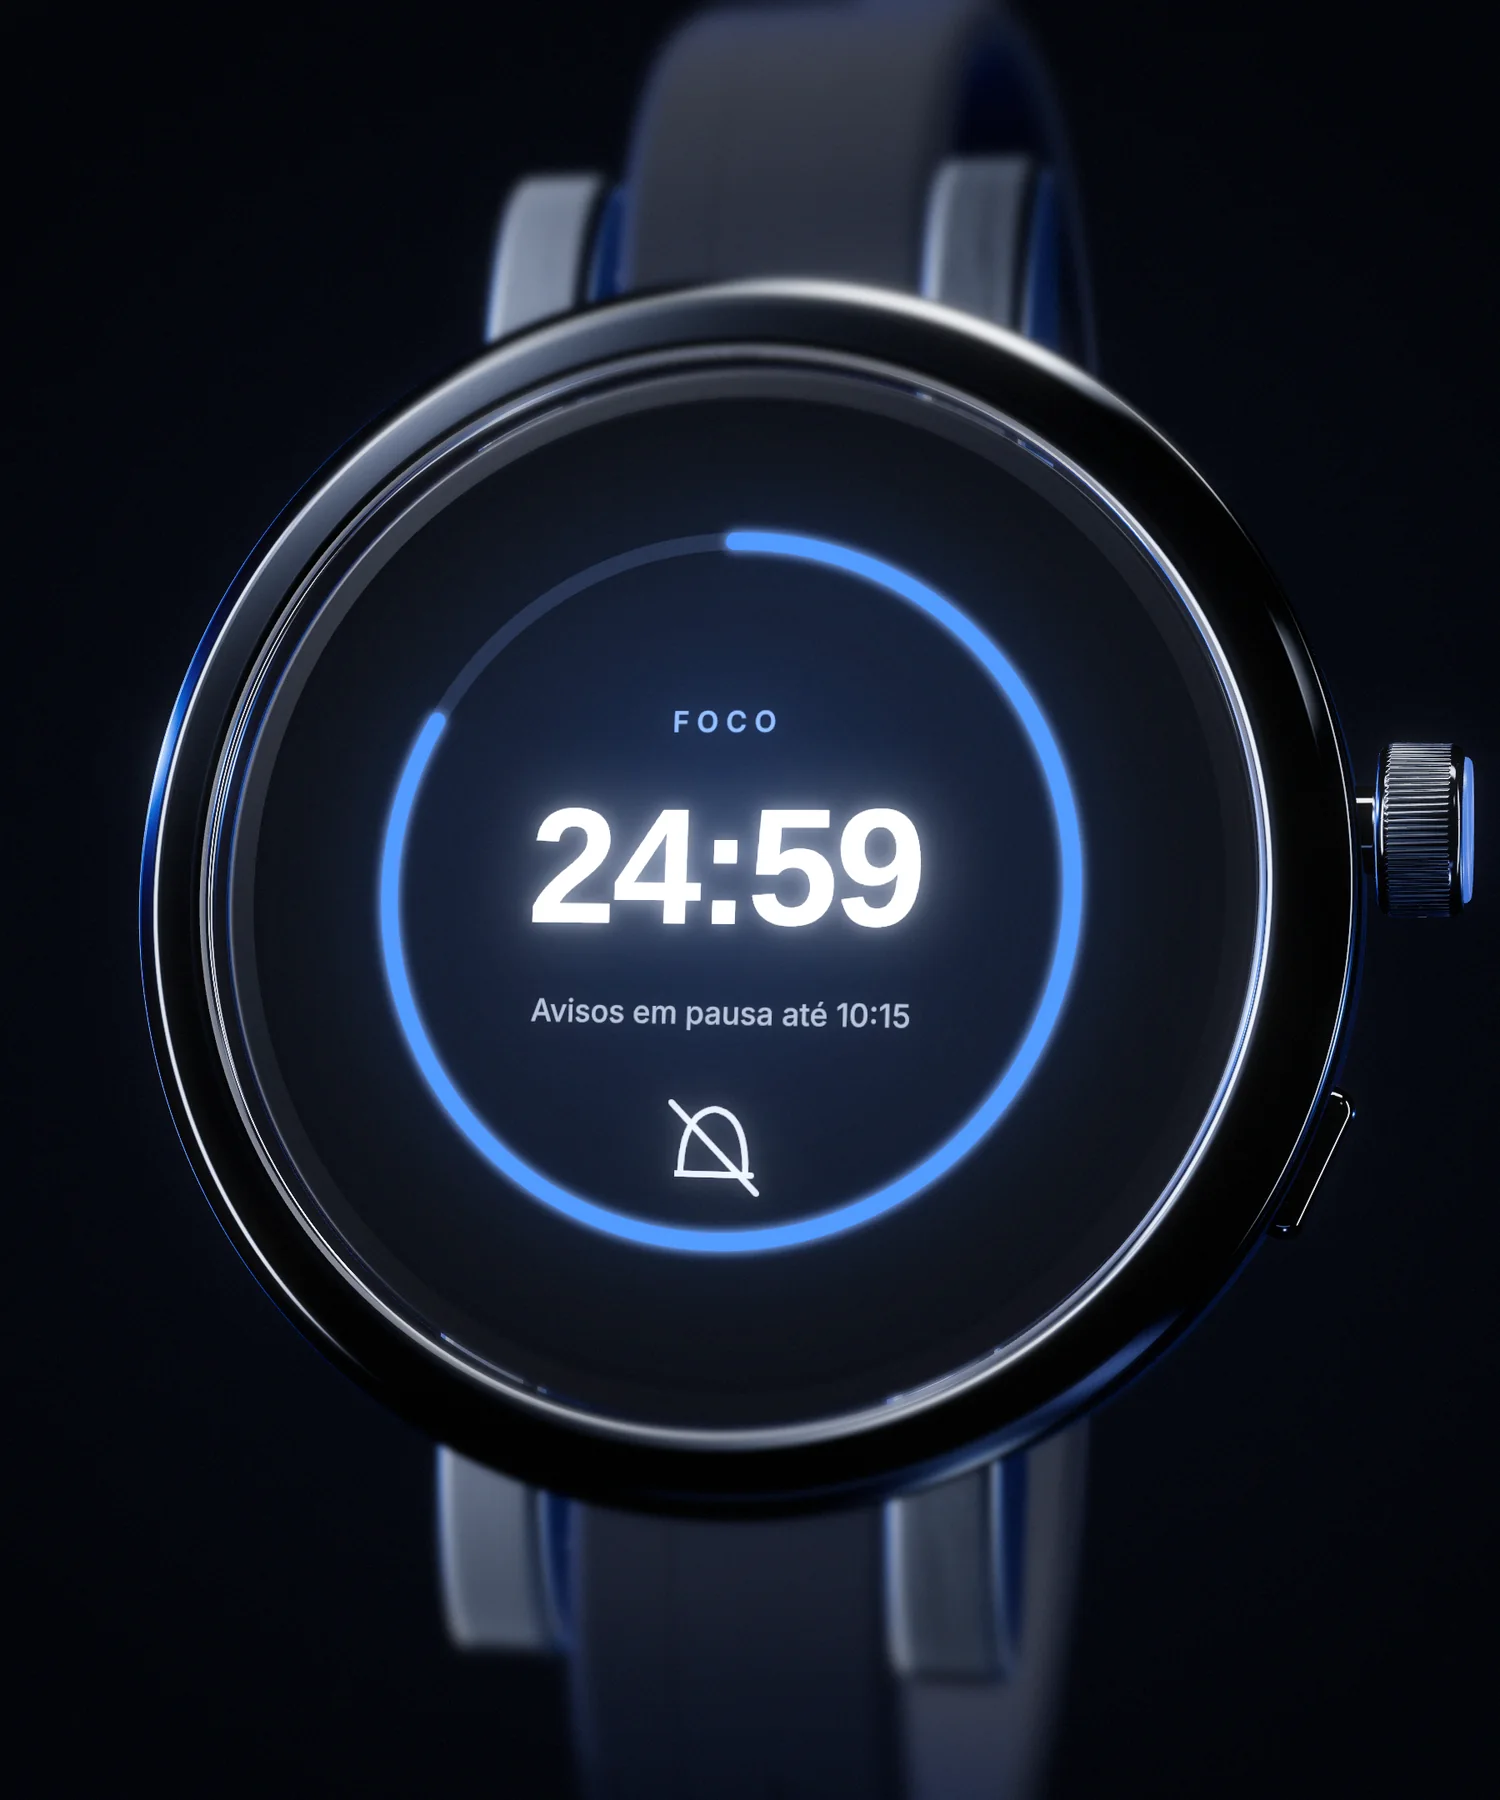
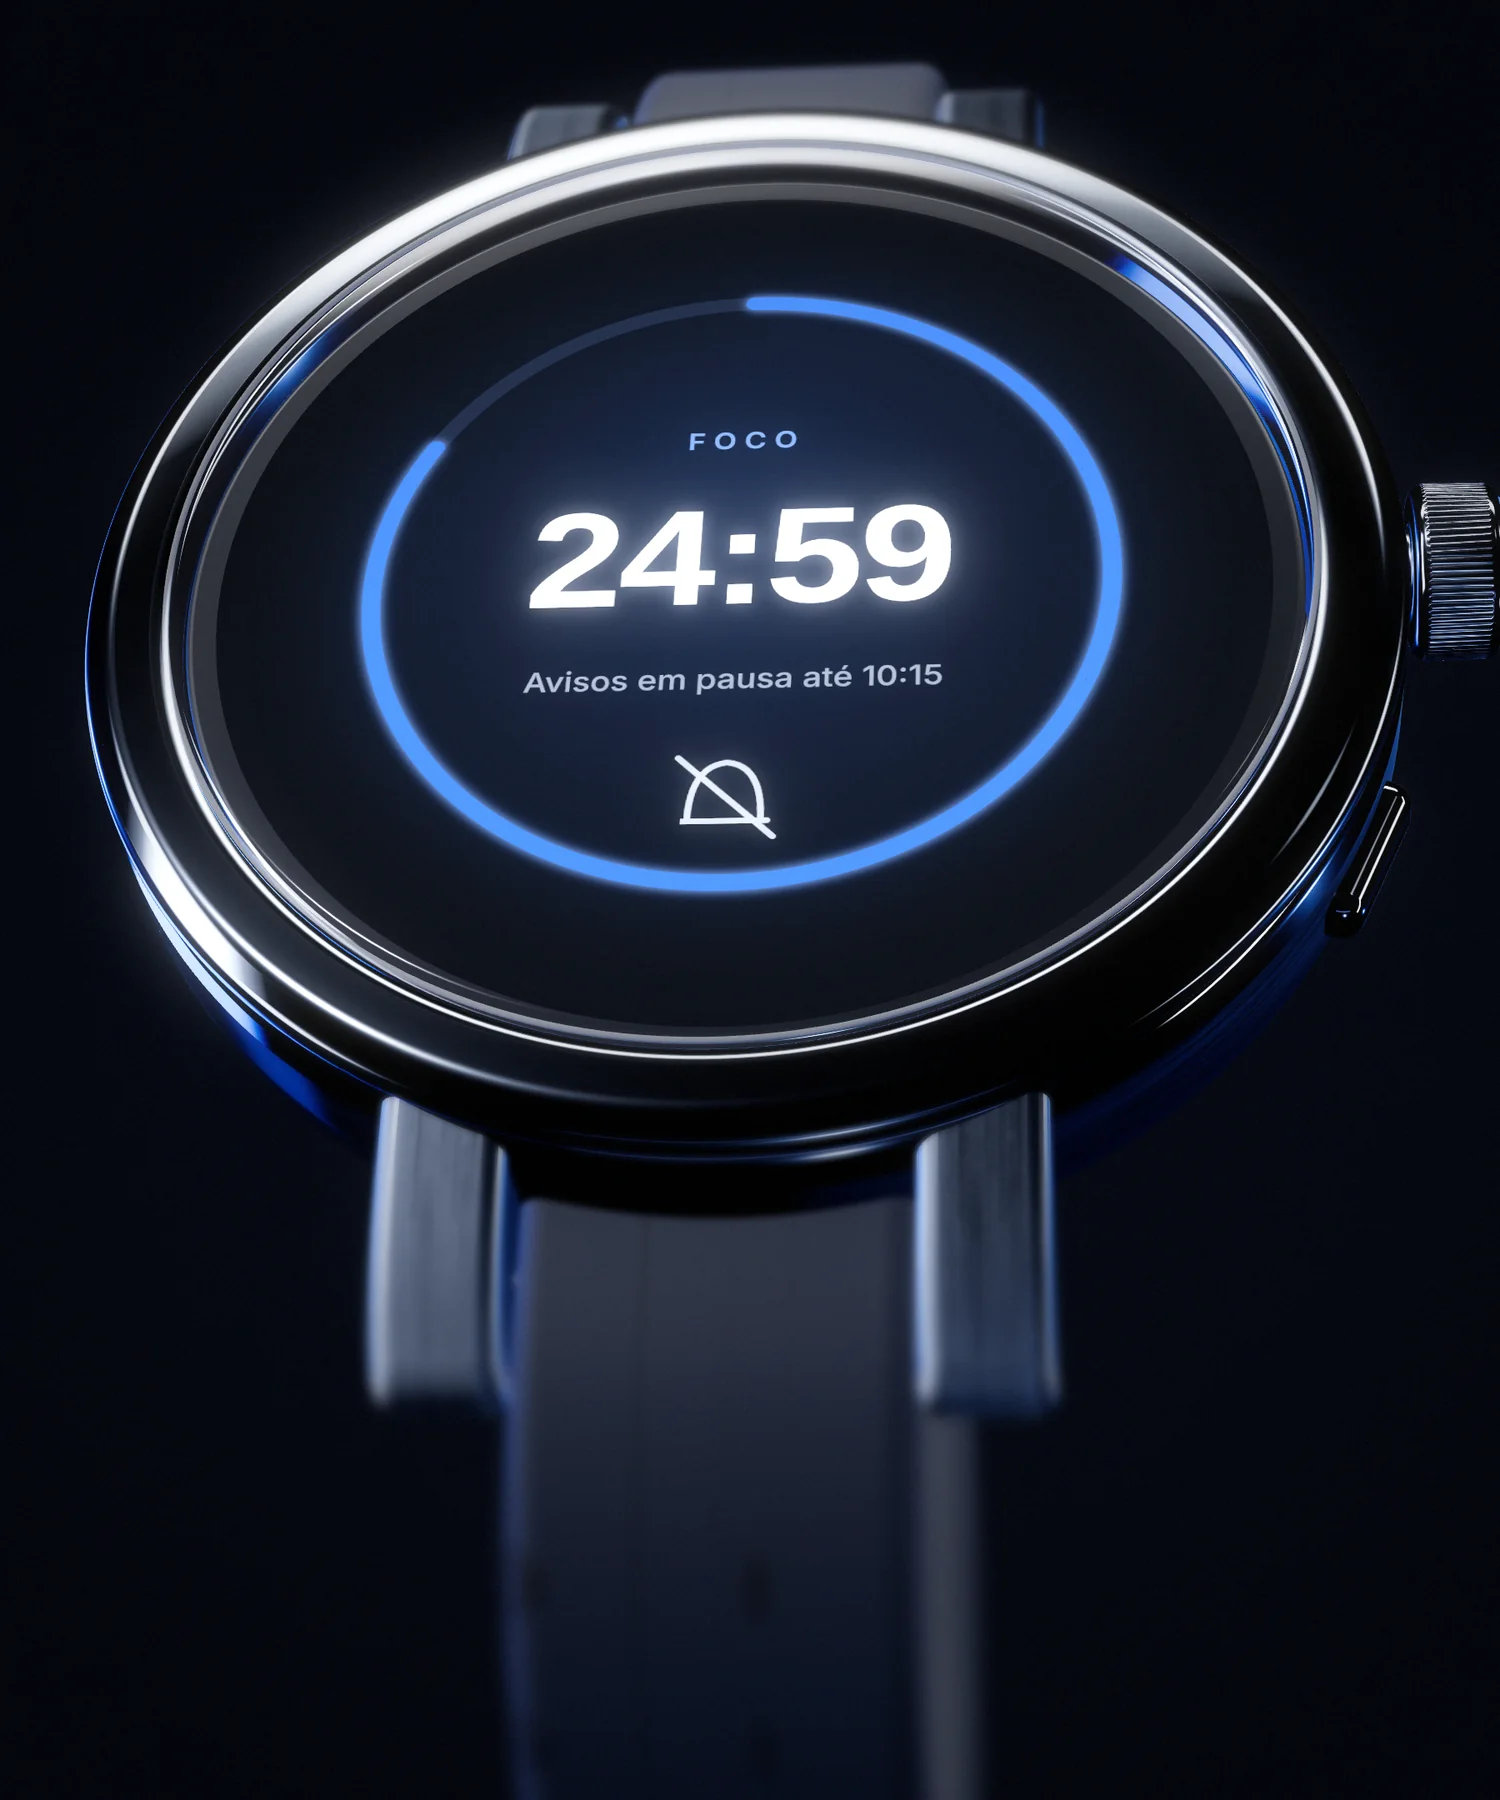
Experiencia sem quadro, relogio visto de baixo esmaecendo no fundo; novas fotos de batimentos e modo noite
Claude-Session: https://claude.ai/code/session_015fBC8hVVoJRo1UqrJkWwk9

diff --git a/index.html b/index.html
@@ -237,19 +237,16 @@ section{position:relative}
 .chiprow span{font-size:13px;font-weight:600;color:var(--text);padding:6px 12px;border-radius:999px;background:rgba(107,155,255,.12);border:1px solid rgba(107,155,255,.28)}
 
 /* ---------- 8 experiência (relógio à esquerda, texto à direita) ---------- */
-.experience{height:auto;background:#020204}
+.experience{height:auto;background:#030409}
 .experience .sticky{position:relative;height:auto;overflow:visible;display:grid;grid-template-columns:minmax(0,1fr) minmax(340px,38vw);align-items:center;gap:clamp(40px,6vw,110px);padding:clamp(110px,15vh,160px) var(--gutter)}
-.exp__frame{width:min(100%,64vh);justify-self:center;margin:0;padding:18px 0;border-top:1px solid var(--line-2);border-bottom:1px solid var(--line-2)}
-.exp__bar{display:flex;align-items:center;justify-content:space-between;gap:20px;font-size:12.5px;font-weight:600;letter-spacing:.16em;text-transform:uppercase;color:var(--text-3)}
-.exp__bar:first-child{margin-bottom:18px}.exp__bar:last-child{margin-top:18px}
-#expModeName{color:var(--text)}
+.exp__frame{width:min(100%,80vh);justify-self:center;margin:0}
 .exp__ticks{display:flex;gap:6px}.exp__ticks i.on{background:var(--text)}.exp__ticks i{width:18px;height:2px;border-radius:2px;background:var(--line-2);transition:background .5s var(--ease)}
-.exp__shot{position:relative;aspect-ratio:5/6;border-radius:20px;overflow:hidden;background:#04060c}
+.exp__shot{position:relative;aspect-ratio:5/6;-webkit-mask-image:linear-gradient(180deg,transparent 0,#000 12%,#000 58%,transparent 96%),linear-gradient(90deg,transparent 0,#000 12%,#000 88%,transparent 100%);-webkit-mask-composite:source-in;mask-image:linear-gradient(180deg,transparent 0,#000 12%,#000 58%,transparent 96%),linear-gradient(90deg,transparent 0,#000 12%,#000 88%,transparent 100%);mask-composite:intersect}
 .exp__shot img{position:absolute;inset:0;width:100%;height:100%;object-fit:cover;opacity:0;transform:scale(1.015);transition:opacity .7s var(--ease),transform 1.2s var(--ease)}
 .exp__shot img.is-active{opacity:1;transform:none}
-.exp__copy{grid-column:2;min-width:0;padding:clamp(34px,3vw,48px) clamp(34px,3vw,48px) 30px}
-.exp__copy h2{font-size:clamp(30px,3.2vw,48px);max-width:14ch;margin:16px 0 16px}
-.exp__copy .lede{max-width:34ch;font-size:17px}
+.exp__copy{grid-column:2;min-width:0}
+.exp__copy h2{font-size:clamp(36px,4vw,60px);letter-spacing:-.04em;max-width:13ch;margin:18px 0 22px}
+.exp__copy .lede{max-width:34ch;font-size:18px}
 .dial{position:relative;flex:none;width:120px;height:120px;border-radius:50%;touch-action:none;cursor:grab;
   background:radial-gradient(circle at 38% 32%,#3a414d 0%,#1d222b 55%,#0e1218 100%);box-shadow:inset 0 0 0 1px rgba(255,255,255,.08),0 18px 40px -18px rgba(0,0,0,.8),0 0 0 6px rgba(11,15,24,.9),0 0 0 7px var(--line)}
 .dial:active{cursor:grabbing}
@@ -262,7 +259,8 @@ section{position:relative}
 .modes button{height:44px;padding:0 8px;border-radius:999px;border:1px solid transparent;font-size:15px;font-weight:500;color:var(--text-2);transition:color .35s var(--ease),border-color .35s var(--ease),background .35s var(--ease)}
 .modes button:hover{color:var(--text)}
 .modes button[aria-selected="true"]{color:#fff;background:rgba(40,100,240,.18);border-color:var(--accent)}
-.exp__row{display:grid;grid-template-columns:auto 1fr;align-items:center;gap:30px;margin-top:30px;padding:24px 0 22px}
+.exp__row{display:grid;grid-template-columns:auto 1fr;align-items:center;gap:36px;margin-top:44px}
+.exp__row .modes{margin-top:0}
 .exp__row .dial{margin:0 0 30px 7px}
 .mode-copy{display:grid;min-width:0}
 .mc{grid-area:1/1;opacity:0;transform:translateY(10px);transition:opacity .45s var(--ease),transform .45s var(--ease)}
@@ -412,11 +410,12 @@ section{position:relative}
   .details .sticky{position:relative;height:auto;min-height:100svh;grid-template-columns:1fr;align-items:end;padding:58svh 14px 48px}
   .experience .sticky{grid-template-columns:1fr;gap:36px;padding:90px var(--gutter)}
   .exp__frame{width:100%}
-  .exp__copy{grid-column:1;padding:22px}
+  .exp__copy{grid-column:1}
   .feat{max-width:none;width:100%}
   .details__col{padding-top:44px;background:linear-gradient(180deg,rgba(6,6,8,0),rgba(6,6,8,.94) 90px)}
   .dial{width:100px;height:100px}
-  .exp__row{gap:20px;margin-top:22px;padding:18px 0 16px}
+  .exp__row{grid-template-columns:1fr;justify-items:start;gap:44px;margin-top:32px}
+  .exp__row .modes{width:100%}
   .modes button{font-size:14px;height:40px}
   .specs{padding-top:100px}
   .feats-grid{grid-template-columns:1fr;gap:44px}
@@ -644,40 +643,31 @@ section{position:relative}
   <!-- 8 · EXPERIÊNCIA -->
   <section class="experience" id="experiencia" aria-labelledby="exp-title">
     <div class="sticky">
-      <figure class="exp__frame">
-        <figcaption class="exp__bar"><span>VOLT One</span><span data-i18n="expBarR">44 mm · titânio escuro</span></figcaption>
+      <figure class="exp__frame" aria-hidden="false">
         <div class="exp__shot">
           <img alt="VOLT One de frente, com a tela no modo escolhido" data-i18n-alt="expAlt0" width="1800" height="2160" decoding="async" loading="lazy">
           <img alt="" width="1800" height="2160" decoding="async" loading="lazy">
           <img alt="" width="1800" height="2160" decoding="async" loading="lazy">
           <img alt="" width="1800" height="2160" decoding="async" loading="lazy">
         </div>
-        <div class="exp__bar"><span id="expModeName">Dia</span><span class="exp__ticks" aria-hidden="true"><i></i><i></i><i></i><i></i></span></div>
       </figure>
-      <div class="exp__copy glass">
+      <div class="exp__copy">
         <p class="kicker" data-i18n="expKicker">Do pulso para o seu dia</p>
         <h2 id="exp-title" data-i18n="expTitle">Um gesto muda o que a tela mostra.</h2>
         <p class="lede" data-i18n="expLede">Gire a coroa e veja o VOLT One em quatro momentos do dia.</p>
-        <div class="modes seg" role="tablist" data-i18n-aria="modesAria" aria-label="Modos da tela">
-            <button type="button" role="tab" aria-selected="true" data-mode="0" data-i18n="mode0">Dia</button>
-            <button type="button" role="tab" aria-selected="false" data-mode="1" data-i18n="mode1">Treino</button>
-            <button type="button" role="tab" aria-selected="false" data-mode="2" data-i18n="mode2">Foco</button>
-            <button type="button" role="tab" aria-selected="false" data-mode="3" data-i18n="mode3">Noite</button>
-          </div>
         <div class="exp__row">
           <div class="dial" id="dial" role="slider" tabindex="0" data-i18n-aria="dialAria" aria-label="Coroa do relógio. Gire para trocar o modo da tela" aria-valuemin="0" aria-valuemax="3" aria-valuenow="0" aria-valuetext="Dia">
               <div class="dial__knurl" id="dialKnurl"><svg viewBox="0 0 100 100" aria-hidden="true" id="dialSvg"></svg></div>
               <div class="dial__ring"></div>
               <span class="dial__hint" aria-hidden="true" data-i18n="dialHint">Gire</span>
             </div>
-          <div class="mode-copy" aria-live="polite">
-            <div class="mc is-active" data-mc="0"><p class="eyebrow" data-i18n="mc0c">No dia a dia</p><h3 data-i18n="mc0t">Seu dia, uma volta de cada vez.</h3><p data-i18n="mc0p">Próximo compromisso, passos e mensagens importantes aparecem quando fazem sentido. O resto espera.</p></div>
-            <div class="mc" data-mc="1"><p class="eyebrow" data-i18n="mc1c">Na prática esportiva</p><h3 data-i18n="mc1t">Ritmo e distância sem tirar o olho do caminho.</h3><p data-i18n="mc1p">Durante o treino, os números ficam grandes e legíveis em movimento. Um giro na coroa troca de tela sem parar a corrida.</p></div>
-            <div class="mc" data-mc="2"><p class="eyebrow" data-i18n="mc2c">No trabalho</p><h3 data-i18n="mc2t">Menos avisos. Mais atenção.</h3><p data-i18n="mc2p">O modo foco segura as notificações que podem esperar e deixa só um cronômetro na tela.</p></div>
-            <div class="mc" data-mc="3"><p class="eyebrow" data-i18n="mc3c">À noite</p><h3 data-i18n="mc3t">Brilho baixo para não acender o quarto.</h3><p data-i18n="mc3p">A tela escurece e mostra só a hora e o próximo alarme, com o mínimo de luz.</p></div>
+          <div class="modes seg" role="tablist" data-i18n-aria="modesAria" aria-label="Modos da tela">
+            <button type="button" role="tab" aria-selected="true" data-mode="0" data-i18n="mode0">Dia</button>
+            <button type="button" role="tab" aria-selected="false" data-mode="1" data-i18n="mode1">Treino</button>
+            <button type="button" role="tab" aria-selected="false" data-mode="2" data-i18n="mode2">Foco</button>
+            <button type="button" role="tab" aria-selected="false" data-mode="3" data-i18n="mode3">Noite</button>
           </div>
         </div>
-        <p class="exp__note" data-i18n="expNote">Interface conceitual, com valores ilustrativos.</p>
       </div>
     </div>
   </section>
@@ -702,7 +692,7 @@ section{position:relative}
         <div class="fcard__body"><p class="fcard__tag" data-i18n="fc1g">Resistência</p><h3 data-i18n="fc1t">Chuva, piscina e suor.</h3><p data-i18n="fc1p">Vedação pensada para acompanhar o dia inteiro, da chuva no caminho ao treino na piscina. Meta de projeto, ainda sem teste.</p></div>
       </article>
       <article class="fcard" aria-roledescription="slide" aria-label="2 / 5">
-        <img src="assets/img/feat/pulso.webp" alt="Antebraço de um atleta com suor, iluminado por uma luz azul" data-i18n-alt="fc2a" width="928" height="1152" loading="lazy" decoding="async">
+        <img src="assets/img/feat/pulso.webp" alt="Corredora recuperando o fôlego à noite, com a cidade desfocada ao fundo" data-i18n-alt="fc2a" width="928" height="1152" loading="lazy" decoding="async">
         <div class="fcard__body"><p class="fcard__tag" data-i18n="fc2g">Batimentos</p><h3 data-i18n="fc2t">O ritmo do coração, no pulso.</h3><p data-i18n="fc2p">Leitura óptica contínua ao longo do dia e nos treinos, para você entender o seu esforço. Bem-estar, sem fins médicos.</p></div>
       </article>
       <article class="fcard" aria-roledescription="slide" aria-label="3 / 5">
@@ -714,7 +704,7 @@ section{position:relative}
         <div class="fcard__body"><p class="fcard__tag" data-i18n="fc4g">Carga sem fio</p><h3 data-i18n="fc4t">Encaixe e pronto.</h3><p data-i18n="fc4p">Base magnética, sem contatos expostos. Meta de até 3 dias de uso típico por carga.</p></div>
       </article>
       <article class="fcard" aria-roledescription="slide" aria-label="5 / 5">
-        <img src="assets/img/feat/noite.webp" alt="Quarto escuro à noite, com uma pessoa dormindo" data-i18n-alt="fc5a" width="928" height="1152" loading="lazy" decoding="async">
+        <img src="assets/img/feat/noite.webp" alt="Mesa de cabeceira com um copo d’água e um livro, sob a luz da lua" data-i18n-alt="fc5a" width="928" height="1152" loading="lazy" decoding="async">
         <div class="fcard__body"><p class="fcard__tag" data-i18n="fc5g">Modo noite</p><h3 data-i18n="fc5t">Pouca luz, quarto escuro.</h3><p data-i18n="fc5p">À noite a tela mostra só a hora e o próximo alarme, com o mínimo de luz possível.</p></div>
       </article>
     </div>
@@ -813,6 +803,6 @@ section{position:relative}
 
 <script src="assets/vendor/gsap.min.js" defer></script>
 <script src="assets/vendor/ScrollTrigger.min.js" defer></script>
-<script type="module" src="assets/js/app.js?v=10"></script>
+<script type="module" src="assets/js/app.js?v=11"></script>
 </body>
 </html>

diff --git a/assets/js/i18n.js b/assets/js/i18n.js
@@ -58,10 +58,10 @@ export const EN = {
   featsKicker: 'In step with your day', featsTitle: 'Ready for whatever the day asks.',
   featsPause: 'Pause', featsPlay: 'Play', featsPrev: 'Previous', featsNext: 'Next',
   fc1g: 'Water resistance', fc1t: 'Rain, pool and sweat.', fc1p: 'Sealing designed to keep up with the whole day, from rain on the way to a swim workout. A design target, not yet tested.', fc1a: 'Water droplets on a brushed titanium surface',
-  fc2g: 'Heart rate', fc2t: 'Your heart’s rhythm, on your wrist.', fc2p: 'Continuous optical readings through the day and during workouts, so you understand your effort. For wellness, not for medical use.', fc2a: 'An athlete’s forearm with sweat, lit by blue light',
+  fc2g: 'Heart rate', fc2t: 'Your heart’s rhythm, on your wrist.', fc2p: 'Continuous optical readings through the day and during workouts, so you understand your effort. For wellness, not for medical use.', fc2a: 'A runner catching her breath at night, with the city blurred behind her',
   fc3g: 'Dual-frequency GPS', fc3t: 'Route, pace and distance, without your phone.', fc3p: 'Record the whole trail right on the watch and see the path you took when you get back.', fc3a: 'A runner on a high mountain trail before sunrise',
   fc4g: 'Wireless charging', fc4t: 'Snap it on and go.', fc4p: 'A magnetic dock with no exposed contacts. Targeting up to 3 days of typical use per charge.', fc4a: 'A round charging dock with a blue ring of light on dark stone',
-  fc5g: 'Night mode', fc5t: 'Little light, dark room.', fc5p: 'At night the screen shows only the time and your next alarm, with as little light as possible.', fc5a: 'A dark bedroom at night with a person sleeping',
+  fc5g: 'Night mode', fc5t: 'Little light, dark room.', fc5p: 'At night the screen shows only the time and your next alarm, with as little light as possible.', fc5a: 'A bedside table with a glass of water and a book under the moonlight',
   specKicker: 'The concept, in numbers', specTitle: 'Designed inside, sized for your day.',
   specLede: 'VOLT One is a concept. The values below are design targets that stay consistent with each other, not measurements of a manufactured product.',
   st1l: 'Battery life target', st1v: 'Up to 3 days', st1s: 'of typical use, not yet tested',

diff --git a/assets/js/app.js b/assets/js/app.js
@@ -3,8 +3,8 @@
    o objeto de estado S entre poses ancoradas nas seções. O loop de render só roda quando algo muda
    e dorme quando nada se move. Sem WebGL, a página mostra uma imagem estática, sem nenhum botão de troca. */
 
-import { drawFace } from './face.js?v=10';
-import { EN, RUNTIME } from './i18n.js?v=10';
+import { drawFace } from './face.js?v=11';
+import { EN, RUNTIME } from './i18n.js?v=11';
 
 const $ = (s, r = document) => r.querySelector(s);
 const $$ = (s, r = document) => [...r.querySelectorAll(s)];
@@ -558,7 +558,7 @@ async function boot3D() {
   root.classList.add('is-3d-loading');
   await fontsReady();
   let mod;
-  try { mod = await import('./watch.js?v=10'); } catch (e) { console.warn('VOLT: 3D indisponível', e); goStatic(); return; }
+  try { mod = await import('./watch.js?v=11'); } catch (e) { console.warn('VOLT: 3D indisponível', e); goStatic(); return; }
   faceCanvas = document.createElement('canvas'); faceCanvas.width = faceCanvas.height = tier === 'high' ? 2048 : 1536;
   drawFace(faceCanvas, faceMode, new Date(), lang);
   const fresh = canvas.cloneNode(false); canvas.replaceWith(fresh); canvas = fresh;
